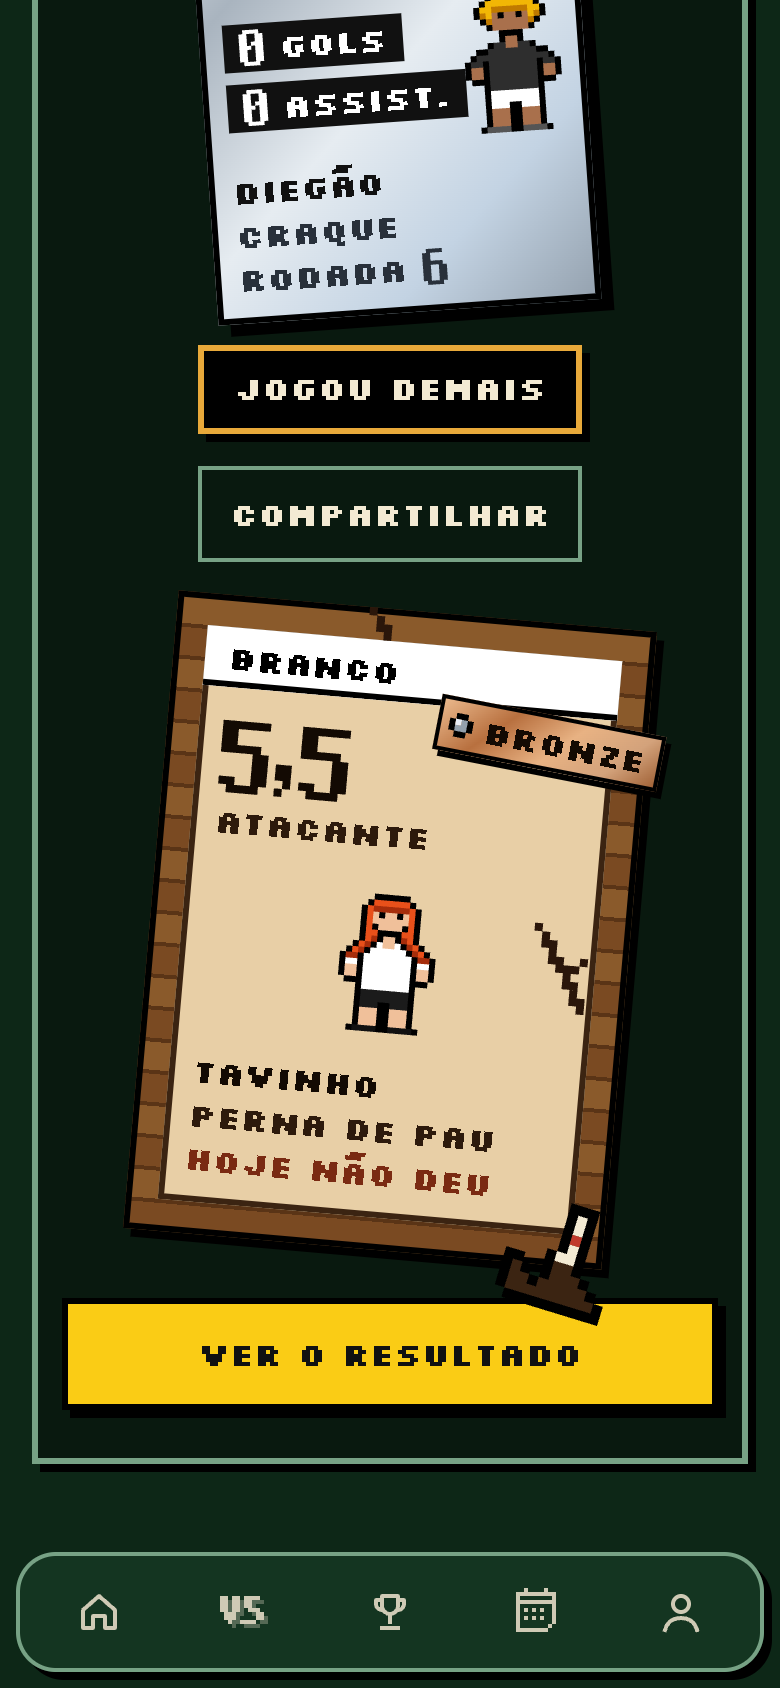
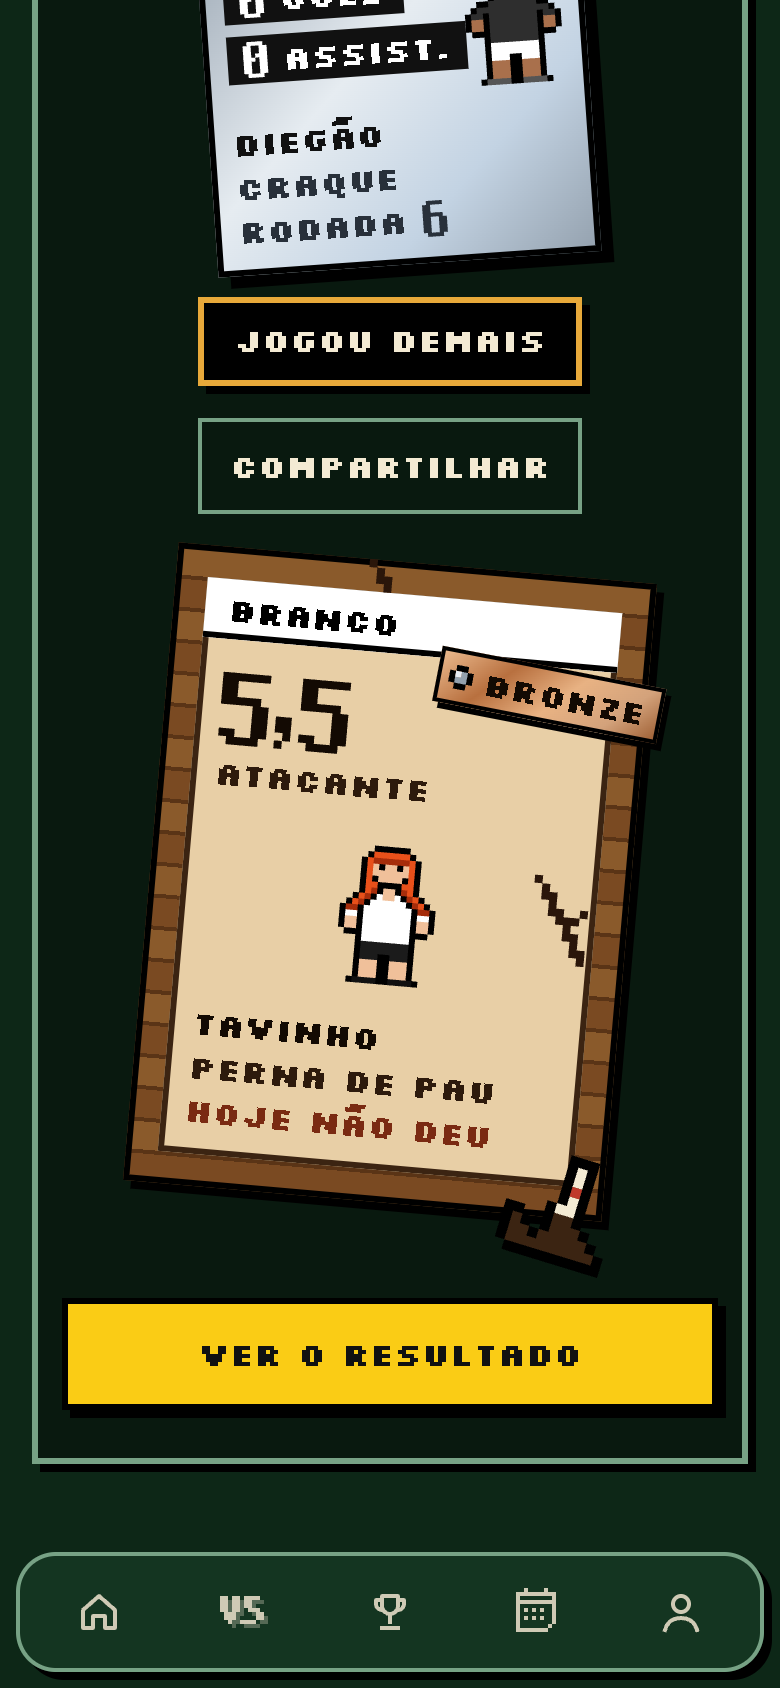
docs(ajustes-feedback): álbum e QA da volta 3 (code-review)

Changed region(s): [[0.1538, 0.0, 0.8615, 0.8009]]

diff --git a/docs/specs/ajustes-feedback.md b/docs/specs/ajustes-feedback.md
@@ -143,7 +143,14 @@ botão em 320 px. Os três foram corrigidos (`EdgeCrack` recortado na madeira de
 | C13 | ✅ | `color-scheme.test.ts`; a meta `light dark` está no DOM |
 | C14 | ✅ | com o sistema em modo escuro: fundo #0d2717 e superfícies #143521, sem mudança |
 
-Observações que não reprovam:
+**Volta 3 (code-review do PR #86): APROVADO** (db5dddf). O pé torto ganhou folga embaixo nas cartas finais (O2), a
+região `aria-live` vazia não deixa mais 12 px fixos sob o botão, saiu o `@media (prefers-color-scheme: dark)` (que não
+fazia nada), o `useSlowWait` ganhou teste com fake timers e "Gerando..." cabe em 320 px (16 px e `gap-2` abaixo de
+360 px, que resolve o O1). A madeira também passou a não depender do `data-tier`. A, B, C, D, E, F e a regressão de
+C1–C14 passaram. Fora da fatia, segue registrado: a contagem "BRANCO 0 DE 7 · 0 DE 7 PRETO" (`lineup-status.tsx`) rola
+na horizontal em 320 px.
+
+Observações da volta 2 (O1 e O2 resolvidas na volta 3):
 - **O1:** em 320 px, o último ponto de "Gerando..." encosta na borda do botão.
 - **O2:** de 360 px para cima, nas cartas finais, a ponta do pé torto fica sob o canto da carta seguinte (só
   decoração com decoração).
